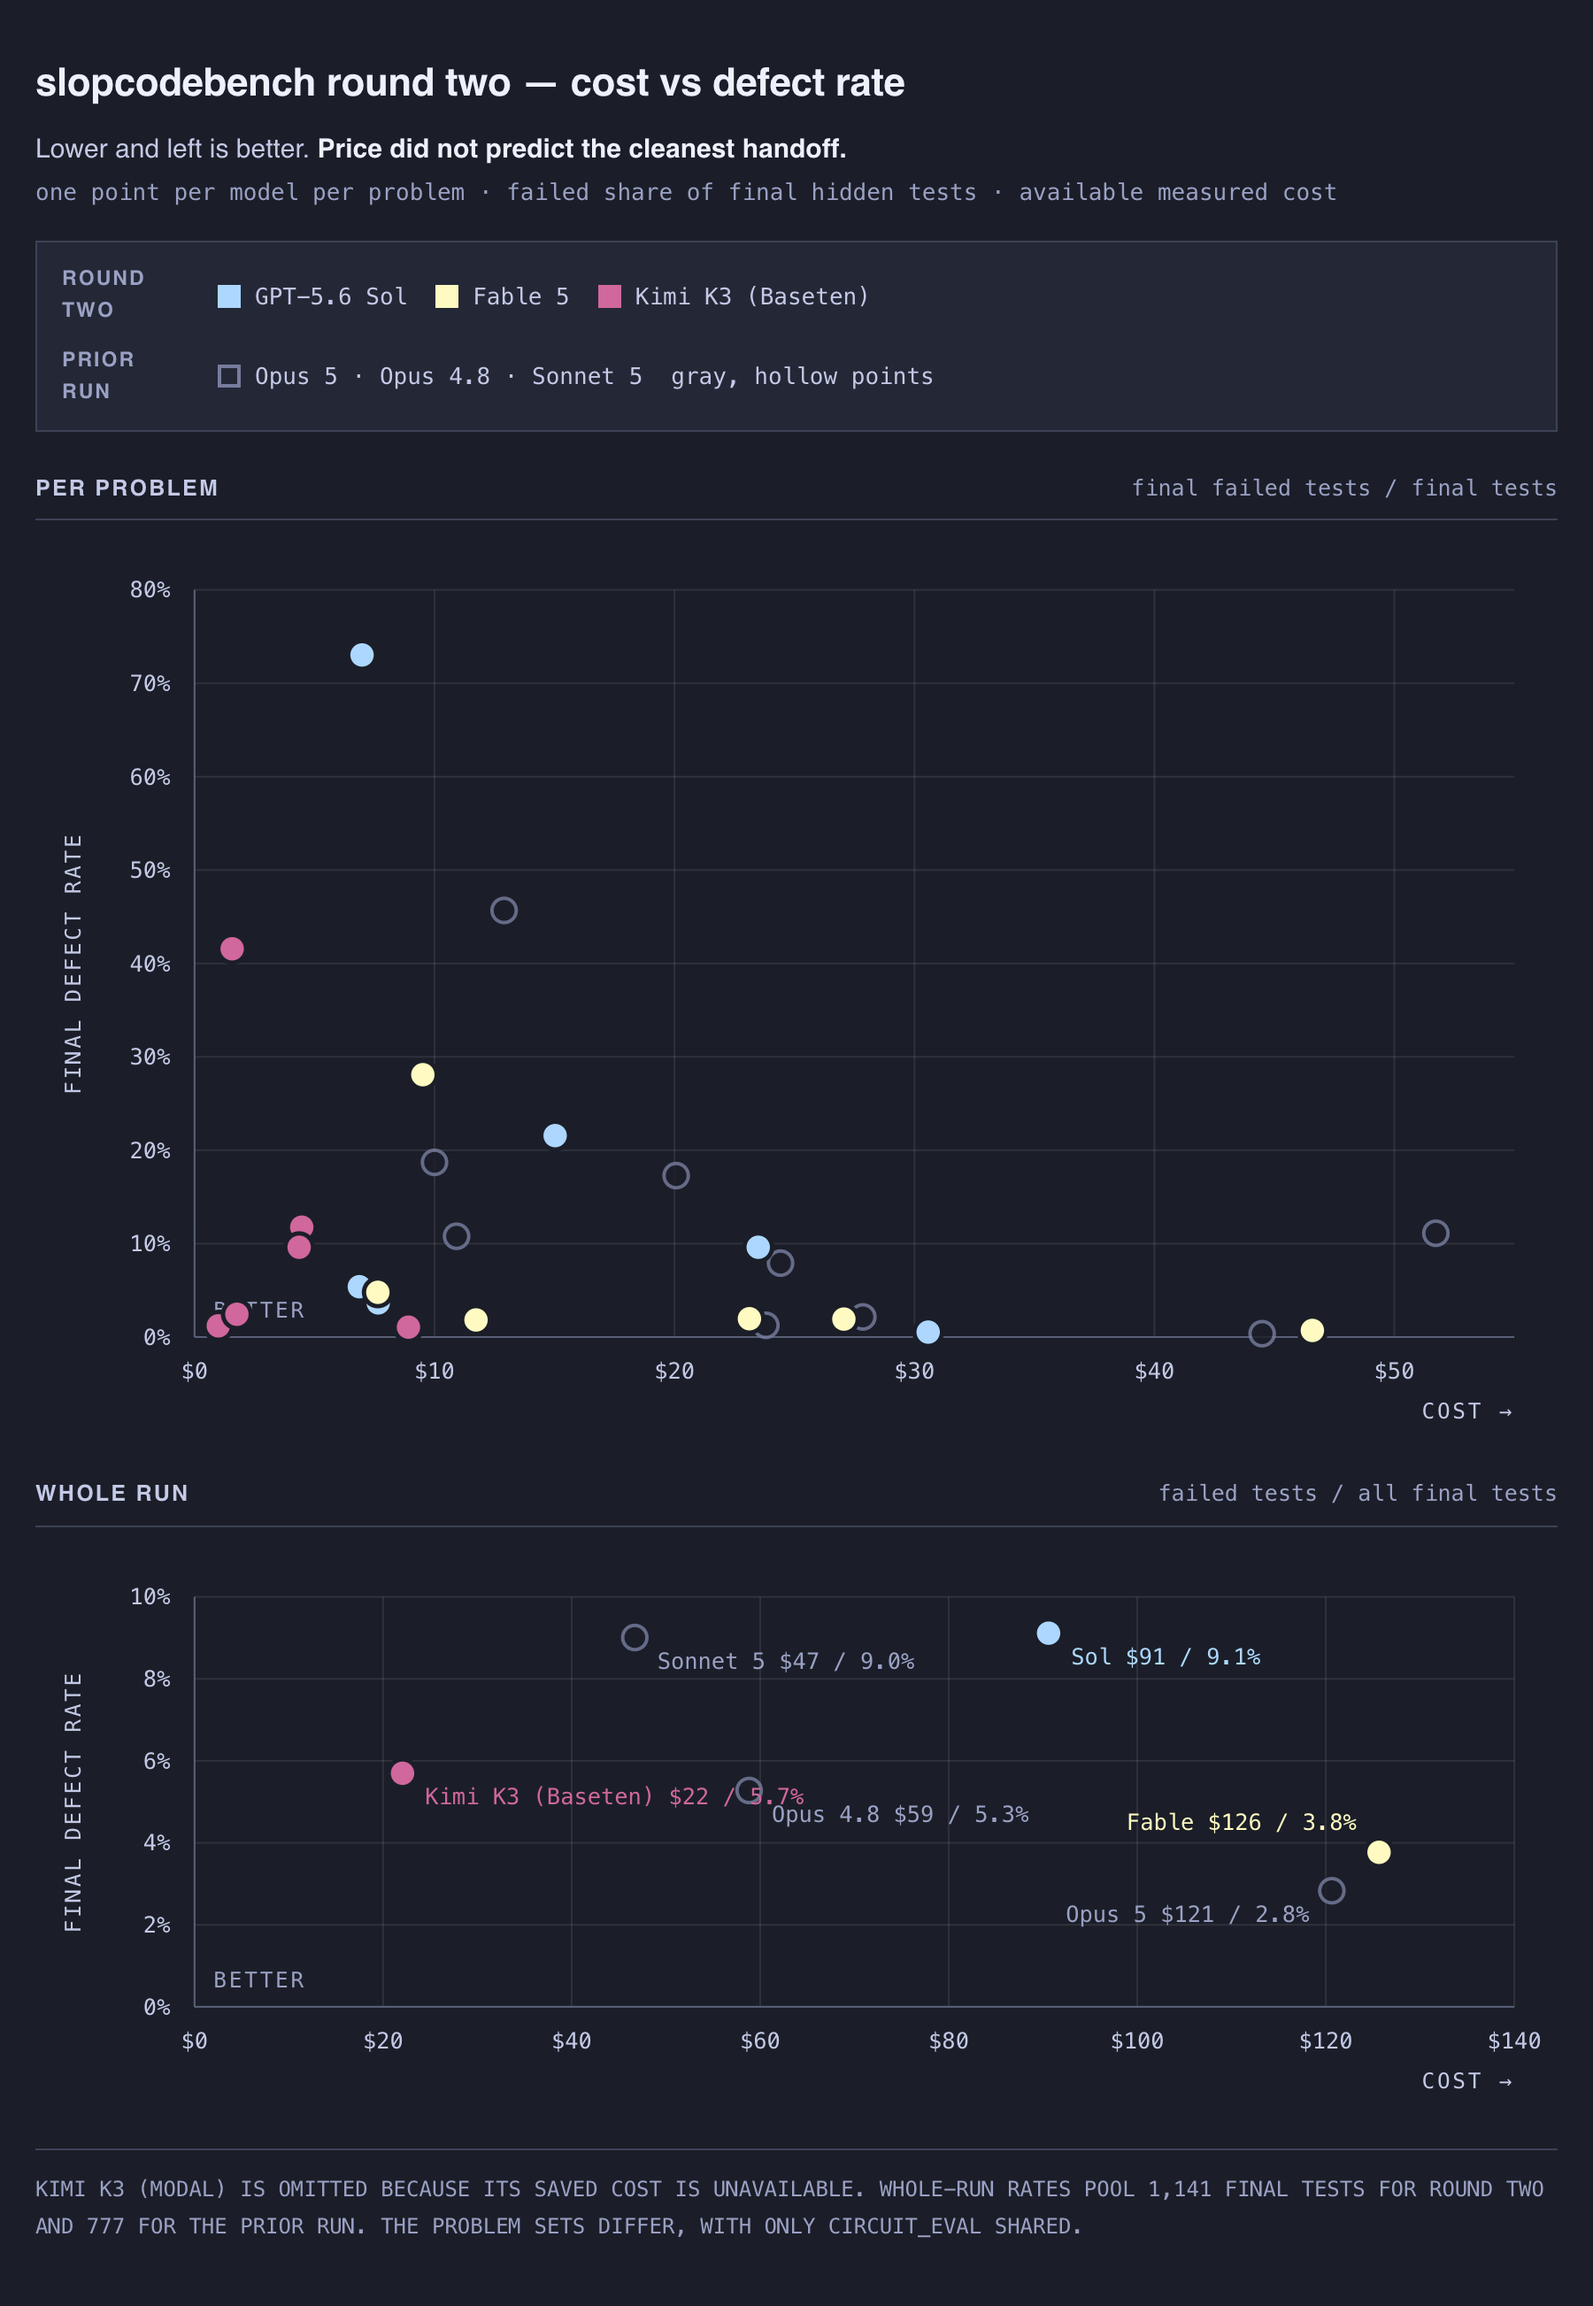
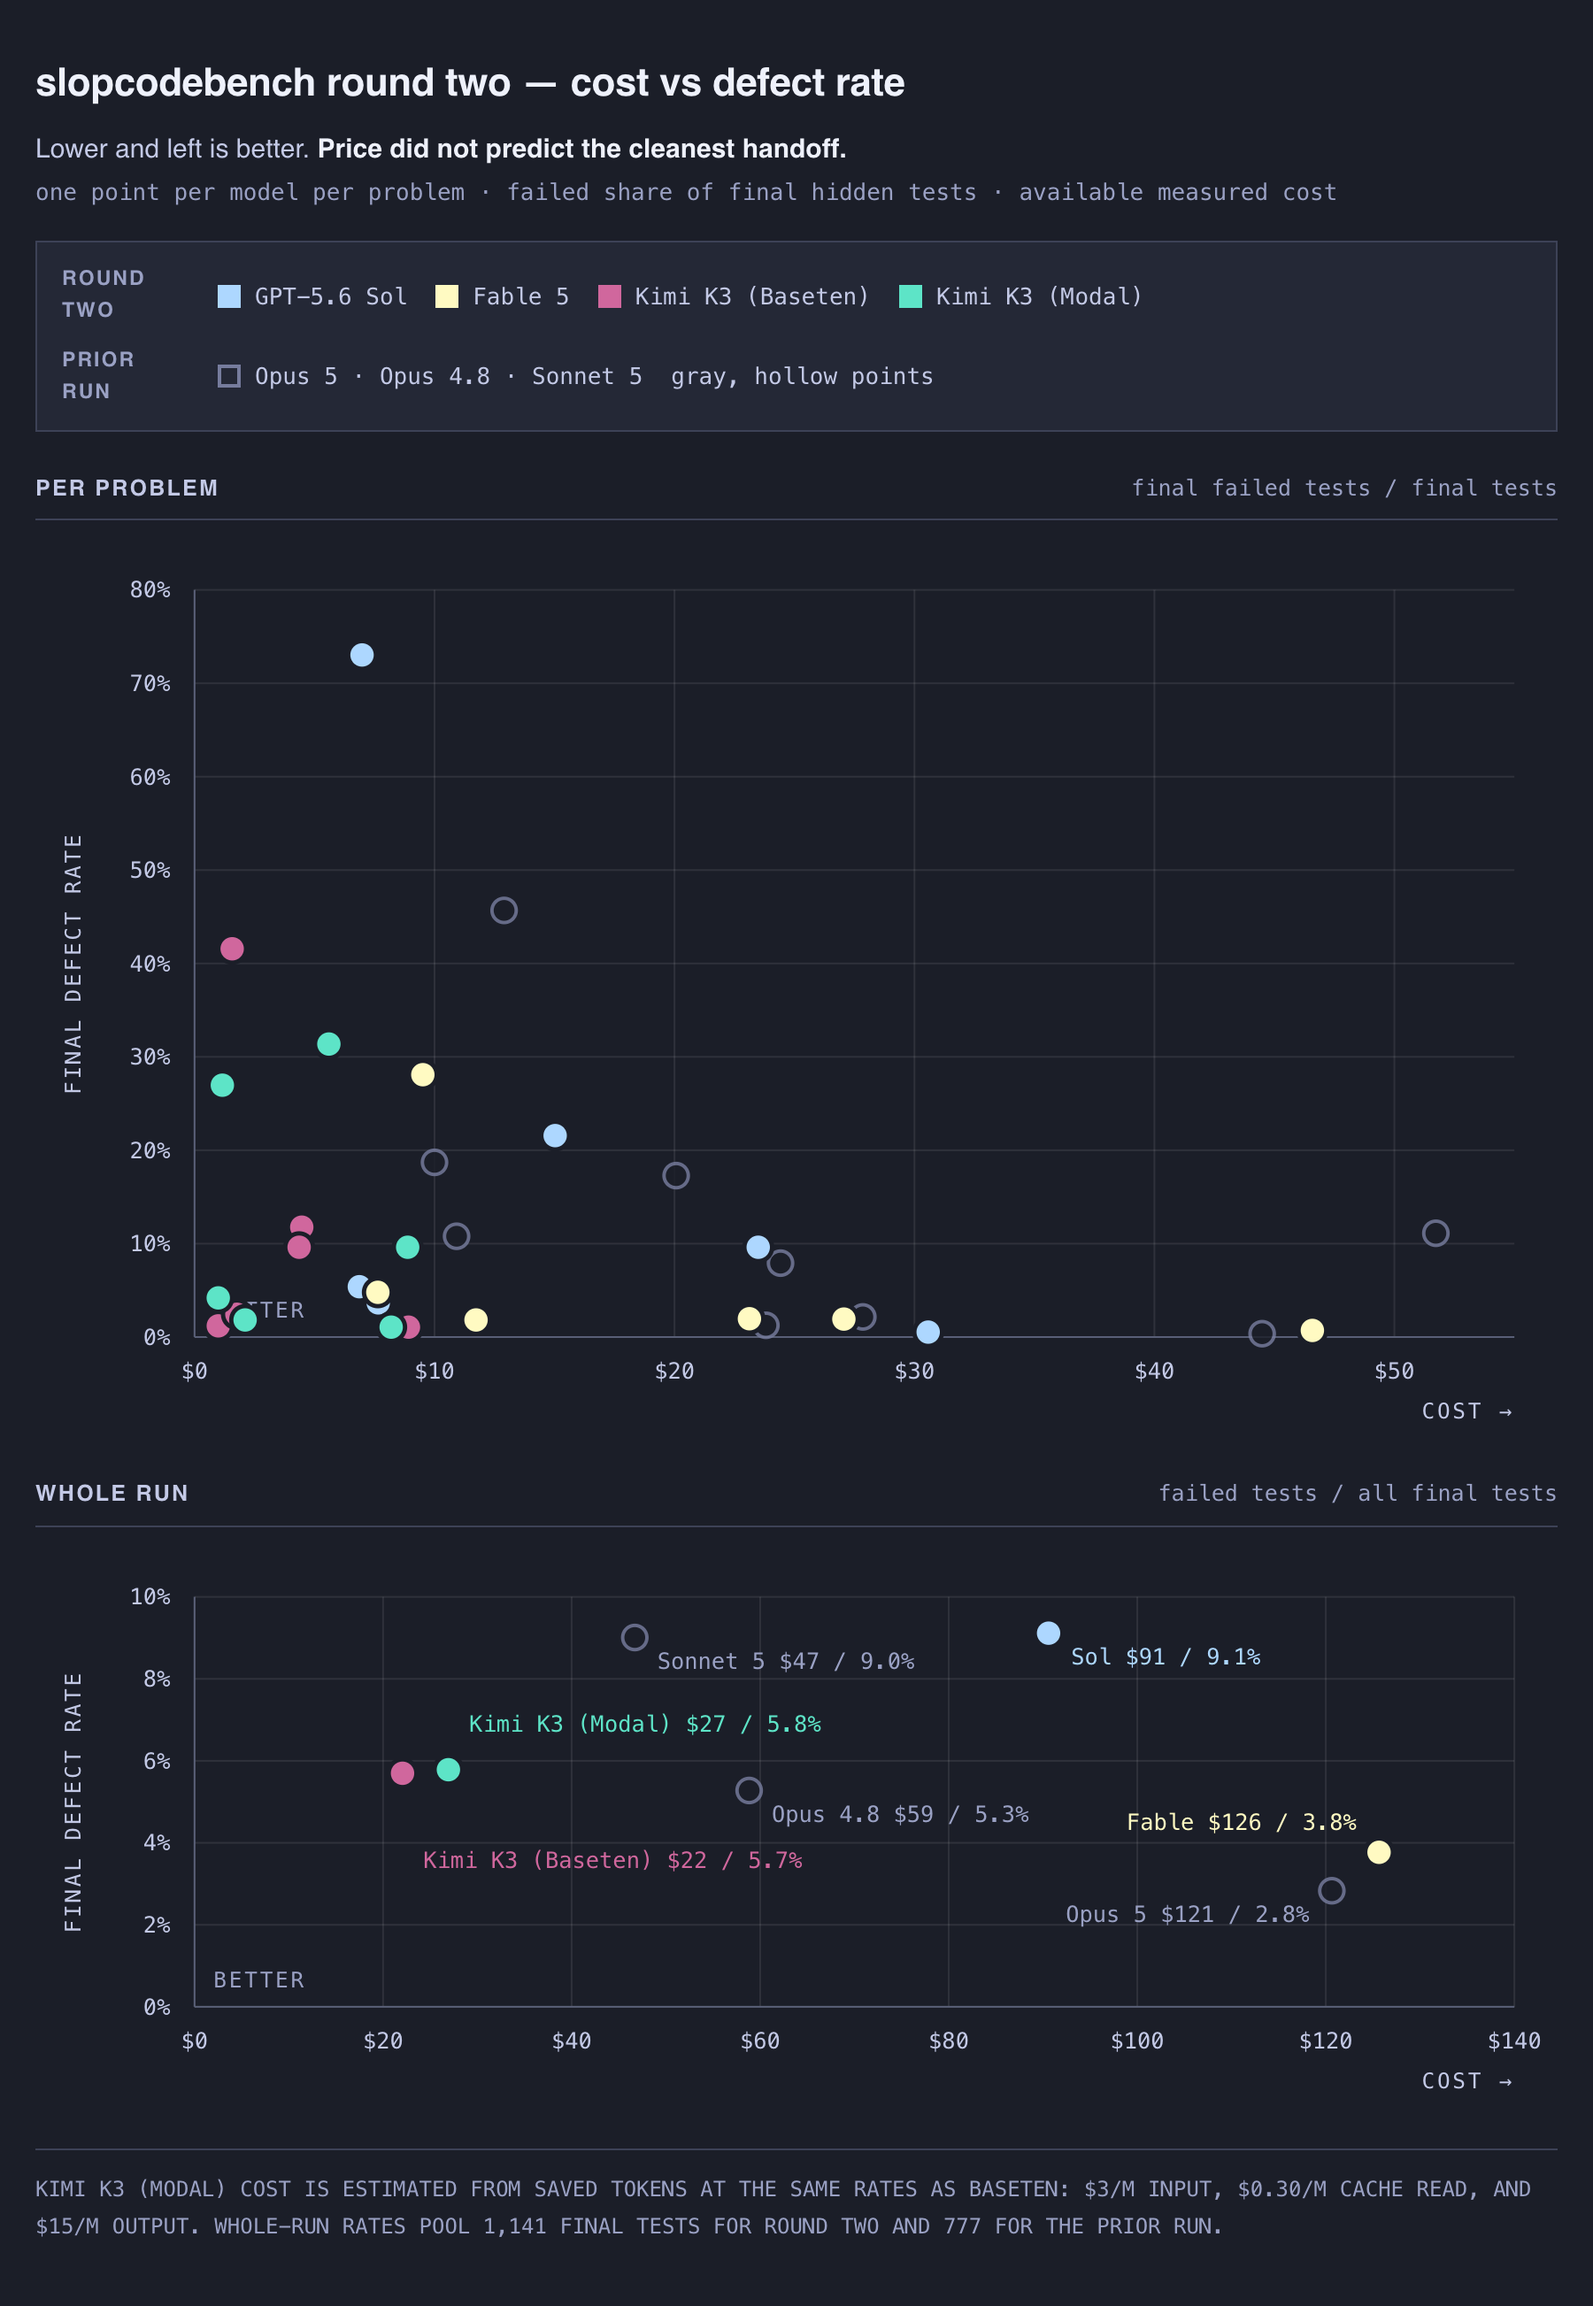
update with modal costs

diff --git a/benchmarking-sol-fable-kimi-on-slop-code-bench.md b/benchmarking-sol-fable-kimi-on-slop-code-bench.md
@@ -84,7 +84,7 @@ If our definition of success is "reached the final checkpoint with no defects" t
 
 ![defects left open at the end of each problem](images/scb-2-defects.png)
 
-As far as cost vs. final defect rate goes, we see a totally different curve from the Opus 5 eval. The chart uses the share of final tests left failing so the three- and six-problem subsets can share one scale; Kimi K3 (Modal) is not plotted because its saved cost is unavailable.
+As far as cost vs. final defect rate goes, we see a similarly vague inverse relationship. Modal did not report a cost, so I estimated its **$26.93** total from the saved token counts using the same rates as Baseten: $3/M input, $0.30/M cache read, and $15/M output.
 
 ![cost vs final defect rate, where defect rate is the share of final hidden tests left failing](images/scb-2-cost-defect-rate.png)
 
